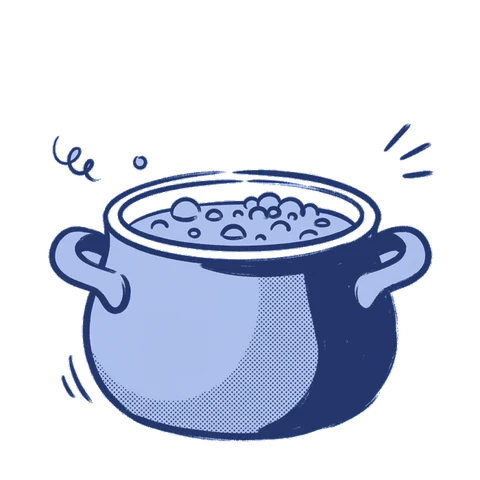
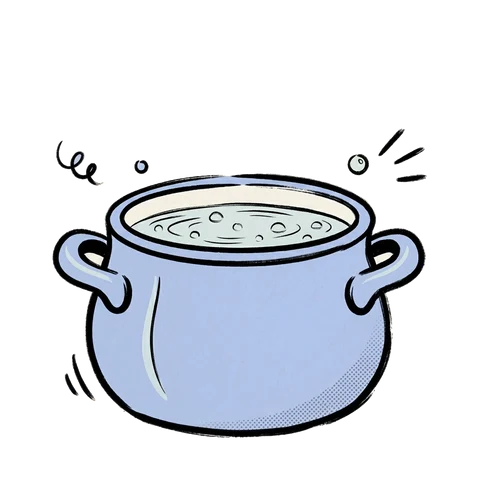
Mockup v8: Topf ausgearbeitet – ohne Schattenhälfte, schwarze Umrandung, feiner Glanz, klares Wasser

Changed region(s): [[0.0938, 0.25, 0.9062, 0.9375], [0.0938, 0.2812, 0.2188, 0.4062]]

diff --git a/docs/ui/mockups/animationen-v8.html b/docs/ui/mockups/animationen-v8.html
@@ -136,7 +136,7 @@ img.ill{display:block}
 .potld .lid{z-index:3;transform-origin:30% 50%;animation:potld-lid 1.25s infinite}
 .potld .in{left:50px;top:6px;width:140px;z-index:1;opacity:0;animation:potld-hop 5s linear infinite;animation-delay:calc(var(--n) * 1.25s)}
 .potld .in:nth-of-type(even){--s:-1}.potld .in:nth-of-type(odd){--s:1}
-.potld .steam{position:absolute;left:90px;top:-36px;width:60px;height:70px;z-index:4;fill:none;stroke:#24366B;stroke-width:2.4;stroke-linecap:round}
+.potld .steam{position:absolute;left:90px;top:-36px;width:60px;height:70px;z-index:4;fill:none;stroke:var(--ink);stroke-width:2.4;stroke-linecap:round}
 .potld .steam path{stroke-dasharray:60;stroke-dashoffset:60;animation:potld-steam 2.4s ease-in-out infinite}
 .potld .steam path:nth-child(2){animation-delay:.8s}.potld .steam path:nth-child(3){animation-delay:1.6s}
 @keyframes potld-breathe{50%{transform:scale(1.04)}}

diff --git a/docs/ui/mockups/redesign-v8-alle.html b/docs/ui/mockups/redesign-v8-alle.html
@@ -136,7 +136,7 @@ img.ill{display:block}
 .potld .lid{z-index:3;transform-origin:30% 50%;animation:potld-lid 1.25s infinite}
 .potld .in{left:50px;top:6px;width:140px;z-index:1;opacity:0;animation:potld-hop 5s linear infinite;animation-delay:calc(var(--n) * 1.25s)}
 .potld .in:nth-of-type(even){--s:-1}.potld .in:nth-of-type(odd){--s:1}
-.potld .steam{position:absolute;left:90px;top:-36px;width:60px;height:70px;z-index:4;fill:none;stroke:#24366B;stroke-width:2.4;stroke-linecap:round}
+.potld .steam{position:absolute;left:90px;top:-36px;width:60px;height:70px;z-index:4;fill:none;stroke:var(--ink);stroke-width:2.4;stroke-linecap:round}
 .potld .steam path{stroke-dasharray:60;stroke-dashoffset:60;animation:potld-steam 2.4s ease-in-out infinite}
 .potld .steam path:nth-child(2){animation-delay:.8s}.potld .steam path:nth-child(3){animation-delay:1.6s}
 @keyframes potld-breathe{50%{transform:scale(1.04)}}

diff --git a/docs/ui/mockups/v8-parts/_extra.html b/docs/ui/mockups/v8-parts/_extra.html
@@ -38,7 +38,7 @@
 .potld .lid{z-index:3;transform-origin:30% 50%;animation:potld-lid 1.25s infinite}
 .potld .in{left:50px;top:6px;width:140px;z-index:1;opacity:0;animation:potld-hop 5s linear infinite;animation-delay:calc(var(--n) * 1.25s)}
 .potld .in:nth-of-type(even){--s:-1}.potld .in:nth-of-type(odd){--s:1}
-.potld .steam{position:absolute;left:90px;top:-36px;width:60px;height:70px;z-index:4;fill:none;stroke:#24366B;stroke-width:2.4;stroke-linecap:round}
+.potld .steam{position:absolute;left:90px;top:-36px;width:60px;height:70px;z-index:4;fill:none;stroke:var(--ink);stroke-width:2.4;stroke-linecap:round}
 .potld .steam path{stroke-dasharray:60;stroke-dashoffset:60;animation:potld-steam 2.4s ease-in-out infinite}
 .potld .steam path:nth-child(2){animation-delay:.8s}.potld .steam path:nth-child(3){animation-delay:1.6s}
 @keyframes potld-breathe{50%{transform:scale(1.04)}}
